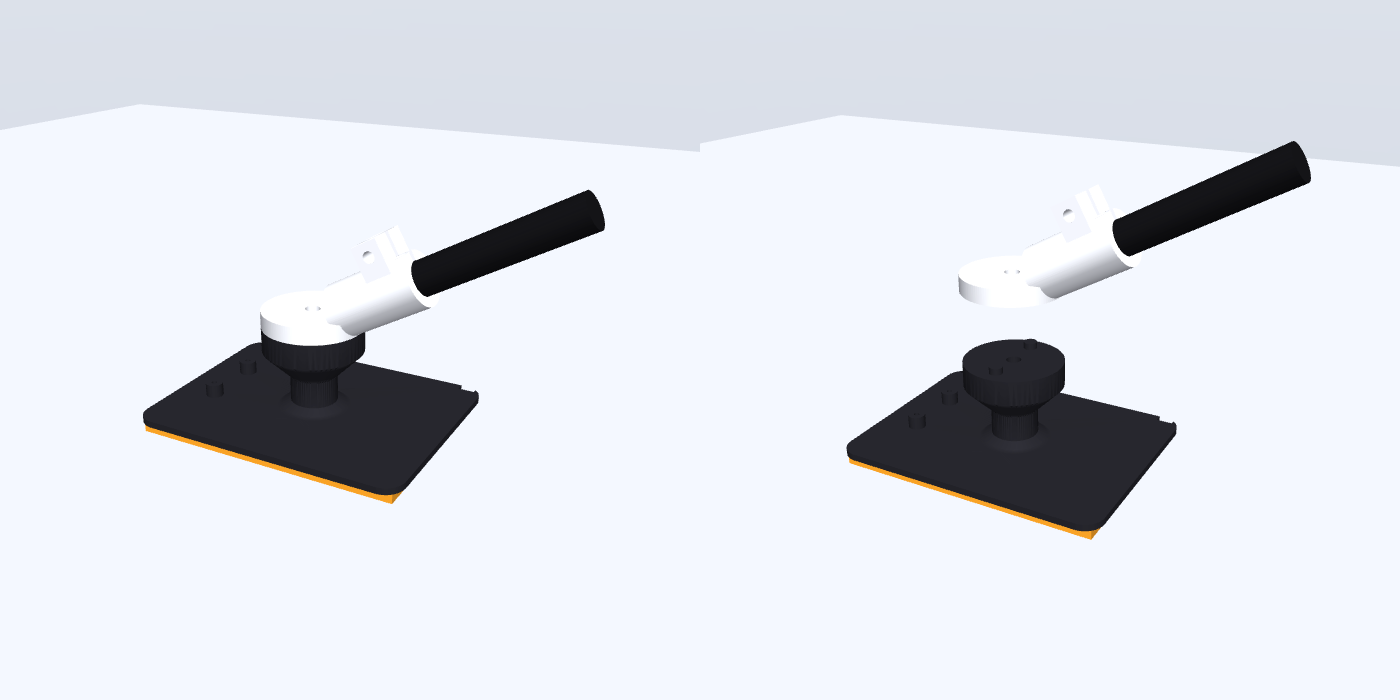
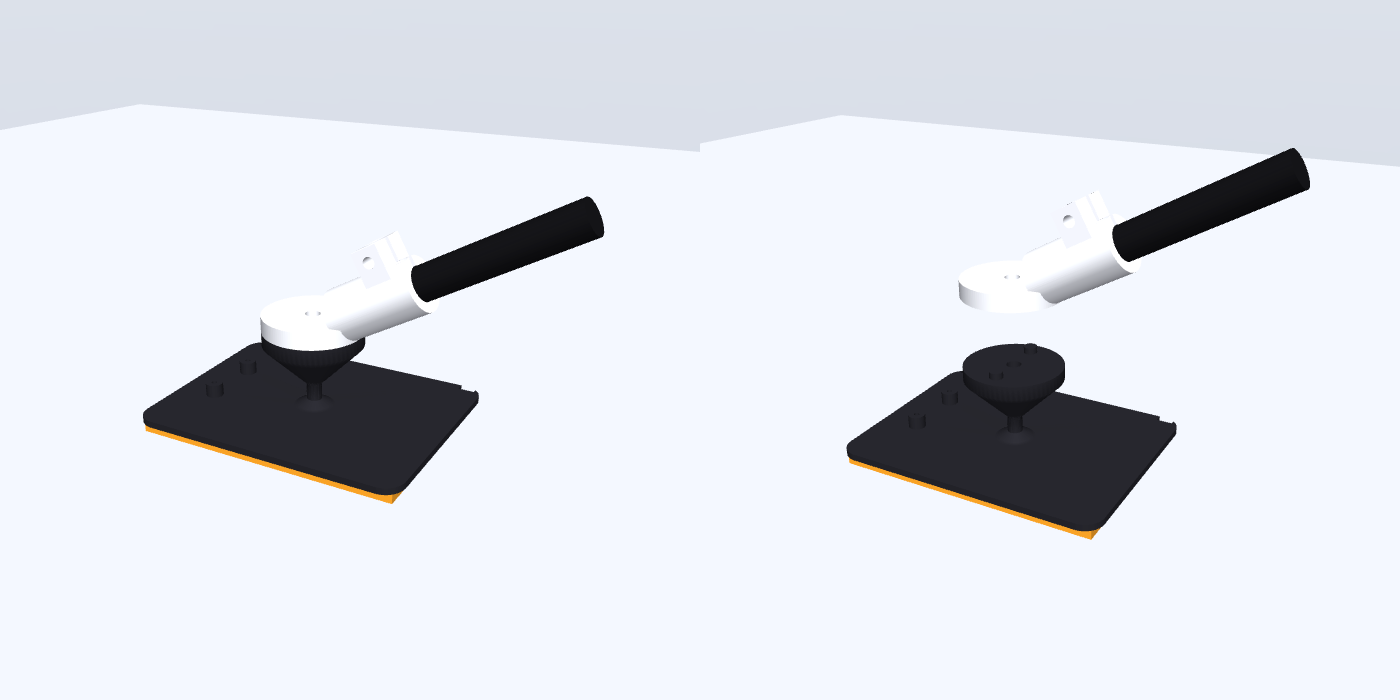
Media: steering GIF, tilted-vs-flat pad comparison, foot preview with the soft neck
- render_corner.py: steer_gif() and pad_compare()
- sim/README.md: steering animation
- hardware/foot/cad/preview.png: regenerated for the 4.5 mm ankle neck

diff --git a/sim/render_corner.py b/sim/render_corner.py
@@ -1,7 +1,7 @@
 #!/usr/bin/env python3
 """Render the wall-to-ceiling corner move and the two-pad ceiling trot (flat-only pads).
 
-    ../.venv/bin/python render_corner.py    # media/corner.gif, media/corner.png, media/trot_ceiling.gif
+    ../.venv/bin/python render_corner.py    # media/corner.gif, corner.png, trot_ceiling.gif, steer_wall.gif
 """
 import mujoco
 import numpy as np
@@ -73,7 +73,66 @@ def trot_gif(cycles=3):
     save_gif(frames, OUT / "trot_ceiling.gif")
 
 
+def steer_gif():
+    """One walk on a vertical wall: up, turn left on the spot, across, sideways. Flat-only pads."""
+    route = [("climbing up", (0.04, 0, 0), 3), ("turning left on the spot", (0, 0, 0.2), 10),
+             ("walking across the wall", (0.04, 0, 0), 3), ("stepping sideways", (0, -0.02, 0), 3)]
+    env = flat.FlatEnv(tilt_deg=90.0)
+    env.reset()
+    gait = flat.FlatGait(env)
+    r = mujoco.Renderer(env.model, 400, 400)
+    start = flat.pose(env)
+    cam = make_camera((start[0] + 0.07, 0.07, 0.05), 0.95, -90, 90)       # looking straight at the wall
+    frames, n = [], 0
+    for name, cmd, cycles in route:
+        gait.cmd = cmd
+        t_end = gait.t + cycles * gait.cycle
+        while gait.t < t_end - 1e-9:
+            env.step(gait(env._foot_contacts()))
+            assert 0.02 < env.data.xpos[env.torso, 2] < 0.35, "fell during the steering render"
+            n += 1
+            if n % 18 == 0:                             # 60 ms frames: 6x real time
+                show_voltage(env)
+                r.update_scene(env.data, cam)
+                x, y, h = flat.pose(env) - start
+                frames.append(label(Image.fromarray(r.render().copy()).rotate(90, expand=True),
+                                    f"ElectroClimb steering on a wall (sim): {name}",
+                                    f"t = {n * gait.dt:3.0f} s   up {x * 100:5.1f} cm   left {y * 100:5.1f} cm   "
+                                    f"heading {h:4.0f} deg   6x speed"))
+    save_gif(frames, OUT / "steer_wall.gif")
+    frames[len(frames) // 2].save(OUT / "steer_wall.png")
+
+
+def pad_compare():
+    """One hind foot just after its first step: original foot (pad on its edge) next to the soft ankle (pad flat)."""
+    from crawl_gait import CrawlGait
+    from env import ClimbEnv
+    shots = []
+    for title, env in (("Original foot: ankle 6 N*m/rad", ClimbEnv(tilt_deg=90.0, randomise=False, fail_prob=0.0)),
+                       ("Soft ankle: 0.1 N*m/rad", flat.FlatEnv(tilt_deg=90.0))):
+        env.reset()
+        gait = CrawlGait(env)
+        foot = env.model.body("hr_foot").id
+        while gait.t < 1.0:                             # the hind-right leg has stepped and gripped again
+            env.step(gait(env._foot_contacts()))
+        z = env.data.xmat[foot].reshape(3, 3)[:, 2]
+        tilt = np.degrees(np.arccos(min(1.0, abs(z[2]))))
+        show_voltage(env)
+        r = mujoco.Renderer(env.model, 560, 560)
+        x, y, _ = env.data.xpos[foot]
+        r.update_scene(env.data, make_camera((x + 0.005, y, 0.035), 0.42, -4, 90))
+        im = Image.fromarray(r.render().copy()).rotate(90, expand=True)
+        shots.append(label(im, title, f"pad tilted {tilt:4.1f} deg to the wall   (simulation, wall on the right)"))
+    sheet = Image.new("RGB", (shots[0].width * 2 + 8, shots[0].height), (20, 22, 26))
+    sheet.paste(shots[0], (0, 0))
+    sheet.paste(shots[1], (shots[0].width + 8, 0))
+    sheet.save(OUT / "pad_tilt.png")
+    print("saved pad_tilt.png")
+
+
 if __name__ == "__main__":
     OUT.mkdir(exist_ok=True)
     corner_gif()
     trot_gif()
+    steer_gif()
+    pad_compare()

diff --git a/sim/README.md b/sim/README.md
@@ -227,6 +227,8 @@ Each foot lands at its home point turned by `yaw` and moved by `(dx, dy)`; the b
 | Sideways | 10.3 cm, slides 2.1 cm down | 10.3 cm |
 | Turn on the spot | 28°, slides 3.6 cm down | 28° |
 
+<p align="center"><img src="../media/steer_wall.gif" width="400" alt="Simulated robot climbing, turning on the spot, walking across and stepping sideways on a wall"></p>
+
 It can walk in any direction and turn on both surfaces. On the wall it slides down a little during sideways steps and turns, and walking down it moves further than commanded.
 
 ### Wall to ceiling ([`corner.py`](corner.py))
